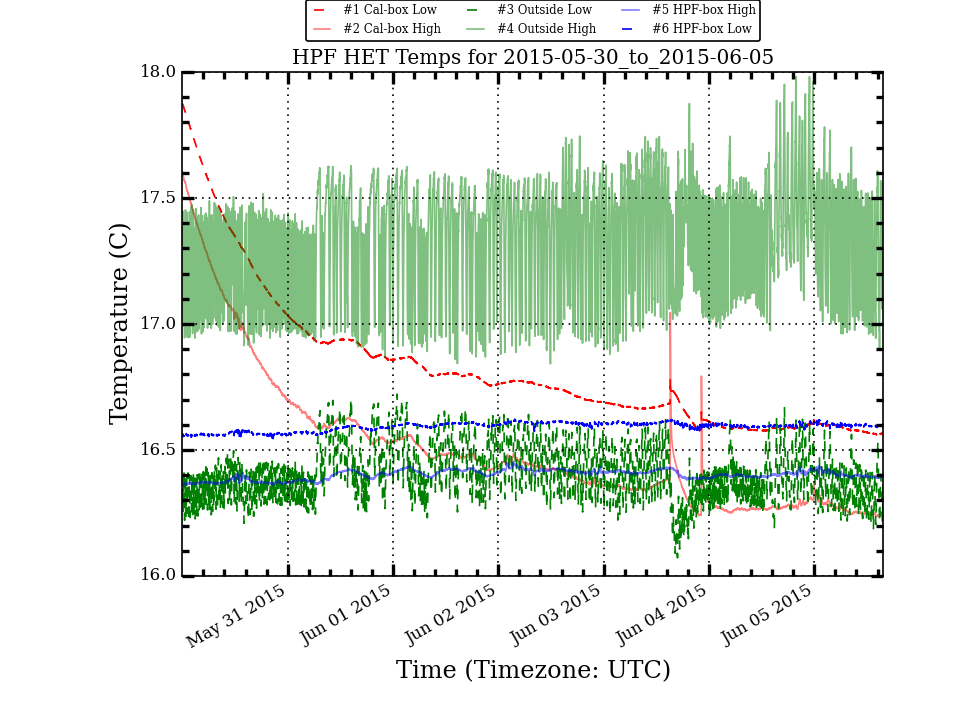
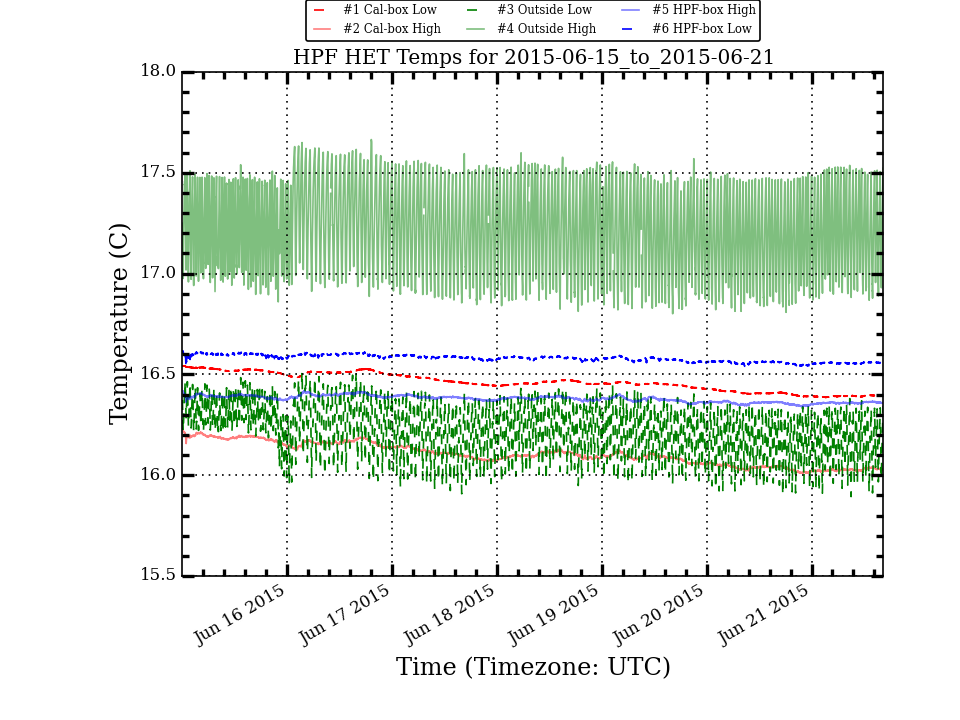
Update HPF Temp Plots

diff --git a/research/hpf_temps/plots/LakeShoreLogTotal_today_stats.html b/research/hpf_temps/plots/LakeShoreLogTotal_today_stats.html
@@ -10,56 +10,56 @@
  </TR>
  <TR>
   <TD>Cal_Low</TD>
-  <TD>16.584</TD>
-  <TD>0.015</TD>
-  <TD>16.581</TD>
-  <TD>16.610</TD>
-  <TD>16.560</TD>
-  <TD>0.050</TD>
+  <TD>16.392</TD>
+  <TD>0.002</TD>
+  <TD>16.392</TD>
+  <TD>16.397</TD>
+  <TD>16.386</TD>
+  <TD>0.011</TD>
  </TR>
  <TR>
   <TD>Cal_High</TD>
-  <TD>16.266</TD>
-  <TD>0.025</TD>
-  <TD>16.255</TD>
-  <TD>16.341</TD>
-  <TD>16.235</TD>
-  <TD>0.106</TD>
+  <TD>16.027</TD>
+  <TD>0.005</TD>
+  <TD>16.026</TD>
+  <TD>16.042</TD>
+  <TD>16.016</TD>
+  <TD>0.026</TD>
  </TR>
  <TR>
   <TD>Out_Low</TD>
-  <TD>16.347</TD>
-  <TD>0.077</TD>
-  <TD>16.340</TD>
-  <TD>16.578</TD>
-  <TD>16.185</TD>
-  <TD>0.393</TD>
+  <TD>16.167</TD>
+  <TD>0.114</TD>
+  <TD>16.176</TD>
+  <TD>16.380</TD>
+  <TD>15.894</TD>
+  <TD>0.486</TD>
  </TR>
  <TR>
   <TD>Out_High</TD>
-  <TD>17.286</TD>
-  <TD>0.197</TD>
-  <TD>17.273</TD>
-  <TD>17.782</TD>
-  <TD>16.903</TD>
-  <TD>0.879</TD>
+  <TD>17.217</TD>
+  <TD>0.193</TD>
+  <TD>17.219</TD>
+  <TD>17.537</TD>
+  <TD>16.868</TD>
+  <TD>0.669</TD>
  </TR>
  <TR>
   <TD>HPF_High</TD>
-  <TD>16.403</TD>
-  <TD>0.012</TD>
-  <TD>16.399</TD>
-  <TD>16.437</TD>
-  <TD>16.387</TD>
-  <TD>0.050</TD>
+  <TD>16.359</TD>
+  <TD>0.003</TD>
+  <TD>16.359</TD>
+  <TD>16.367</TD>
+  <TD>16.350</TD>
+  <TD>0.017</TD>
  </TR>
  <TR>
   <TD>HPF_Low</TD>
-  <TD>16.600</TD>
-  <TD>0.007</TD>
-  <TD>16.599</TD>
-  <TD>16.619</TD>
-  <TD>16.578</TD>
-  <TD>0.041</TD>
+  <TD>16.557</TD>
+  <TD>0.002</TD>
+  <TD>16.556</TD>
+  <TD>16.563</TD>
+  <TD>16.550</TD>
+  <TD>0.013</TD>
  </TR>
 </TABLE>

diff --git a/research/hpf_temps/plots/LakeShoreLogTotal_week_stats.html b/research/hpf_temps/plots/LakeShoreLogTotal_week_stats.html
@@ -10,56 +10,56 @@
  </TR>
  <TR>
   <TD>Cal_Low</TD>
-  <TD>16.826</TD>
-  <TD>0.277</TD>
-  <TD>16.758</TD>
-  <TD>17.875</TD>
-  <TD>16.560</TD>
-  <TD>1.315</TD>
+  <TD>16.461</TD>
+  <TD>0.044</TD>
+  <TD>16.456</TD>
+  <TD>16.543</TD>
+  <TD>16.386</TD>
+  <TD>0.157</TD>
  </TR>
  <TR>
   <TD>Cal_High</TD>
-  <TD>16.507</TD>
-  <TD>0.279</TD>
-  <TD>16.433</TD>
-  <TD>17.605</TD>
-  <TD>16.235</TD>
-  <TD>1.370</TD>
+  <TD>16.104</TD>
+  <TD>0.055</TD>
+  <TD>16.098</TD>
+  <TD>16.232</TD>
+  <TD>16.010</TD>
+  <TD>0.222</TD>
  </TR>
  <TR>
   <TD>Out_Low</TD>
-  <TD>16.410</TD>
-  <TD>0.108</TD>
-  <TD>16.395</TD>
-  <TD>16.722</TD>
-  <TD>16.072</TD>
-  <TD>0.650</TD>
+  <TD>16.223</TD>
+  <TD>0.124</TD>
+  <TD>16.239</TD>
+  <TD>16.516</TD>
+  <TD>15.894</TD>
+  <TD>0.622</TD>
  </TR>
  <TR>
   <TD>Out_High</TD>
-  <TD>17.314</TD>
-  <TD>0.210</TD>
-  <TD>17.329</TD>
-  <TD>17.982</TD>
-  <TD>16.842</TD>
-  <TD>1.140</TD>
+  <TD>17.223</TD>
+  <TD>0.201</TD>
+  <TD>17.226</TD>
+  <TD>17.665</TD>
+  <TD>16.801</TD>
+  <TD>0.864</TD>
  </TR>
  <TR>
   <TD>HPF_High</TD>
-  <TD>16.402</TD>
-  <TD>0.019</TD>
-  <TD>16.404</TD>
-  <TD>16.455</TD>
-  <TD>16.358</TD>
-  <TD>0.097</TD>
+  <TD>16.379</TD>
+  <TD>0.016</TD>
+  <TD>16.381</TD>
+  <TD>16.420</TD>
+  <TD>16.341</TD>
+  <TD>0.079</TD>
  </TR>
  <TR>
   <TD>HPF_Low</TD>
-  <TD>16.593</TD>
+  <TD>16.579</TD>
   <TD>0.017</TD>
-  <TD>16.597</TD>
-  <TD>16.624</TD>
-  <TD>16.544</TD>
-  <TD>0.080</TD>
+  <TD>16.581</TD>
+  <TD>16.616</TD>
+  <TD>16.540</TD>
+  <TD>0.076</TD>
  </TR>
 </TABLE>

diff --git a/research/hpf_temps/plots/LakeShoreLogTotal_month_stats.html b/research/hpf_temps/plots/LakeShoreLogTotal_month_stats.html
@@ -10,56 +10,56 @@
  </TR>
  <TR>
   <TD>Cal_Low</TD>
-  <TD>16.655</TD>
-  <TD>0.241</TD>
-  <TD>16.613</TD>
+  <TD>16.598</TD>
+  <TD>0.252</TD>
+  <TD>16.526</TD>
   <TD>18.195</TD>
   <TD>16.343</TD>
   <TD>1.852</TD>
  </TR>
  <TR>
   <TD>Cal_High</TD>
-  <TD>16.330</TD>
-  <TD>0.266</TD>
-  <TD>16.287</TD>
+  <TD>16.267</TD>
+  <TD>0.280</TD>
+  <TD>16.194</TD>
   <TD>18.238</TD>
   <TD>15.984</TD>
   <TD>2.254</TD>
  </TR>
  <TR>
   <TD>Out_Low</TD>
-  <TD>16.374</TD>
-  <TD>0.138</TD>
-  <TD>16.374</TD>
-  <TD>16.746</TD>
+  <TD>16.314</TD>
+  <TD>0.142</TD>
+  <TD>16.317</TD>
+  <TD>16.835</TD>
   <TD>15.865</TD>
-  <TD>0.881</TD>
+  <TD>0.970</TD>
  </TR>
  <TR>
   <TD>Out_High</TD>
-  <TD>17.233</TD>
-  <TD>0.205</TD>
-  <TD>17.268</TD>
-  <TD>17.982</TD>
-  <TD>16.633</TD>
-  <TD>1.349</TD>
+  <TD>17.262</TD>
+  <TD>0.210</TD>
+  <TD>17.275</TD>
+  <TD>18.040</TD>
+  <TD>16.678</TD>
+  <TD>1.362</TD>
  </TR>
  <TR>
   <TD>HPF_High</TD>
-  <TD>16.386</TD>
-  <TD>0.024</TD>
-  <TD>16.386</TD>
-  <TD>16.455</TD>
-  <TD>16.328</TD>
-  <TD>0.127</TD>
+  <TD>16.385</TD>
+  <TD>0.023</TD>
+  <TD>16.385</TD>
+  <TD>16.478</TD>
+  <TD>16.329</TD>
+  <TD>0.149</TD>
  </TR>
  <TR>
   <TD>HPF_Low</TD>
   <TD>16.581</TD>
-  <TD>0.021</TD>
-  <TD>16.584</TD>
-  <TD>16.624</TD>
+  <TD>0.020</TD>
+  <TD>16.583</TD>
+  <TD>16.642</TD>
   <TD>16.484</TD>
-  <TD>0.140</TD>
+  <TD>0.158</TD>
  </TR>
 </TABLE>
